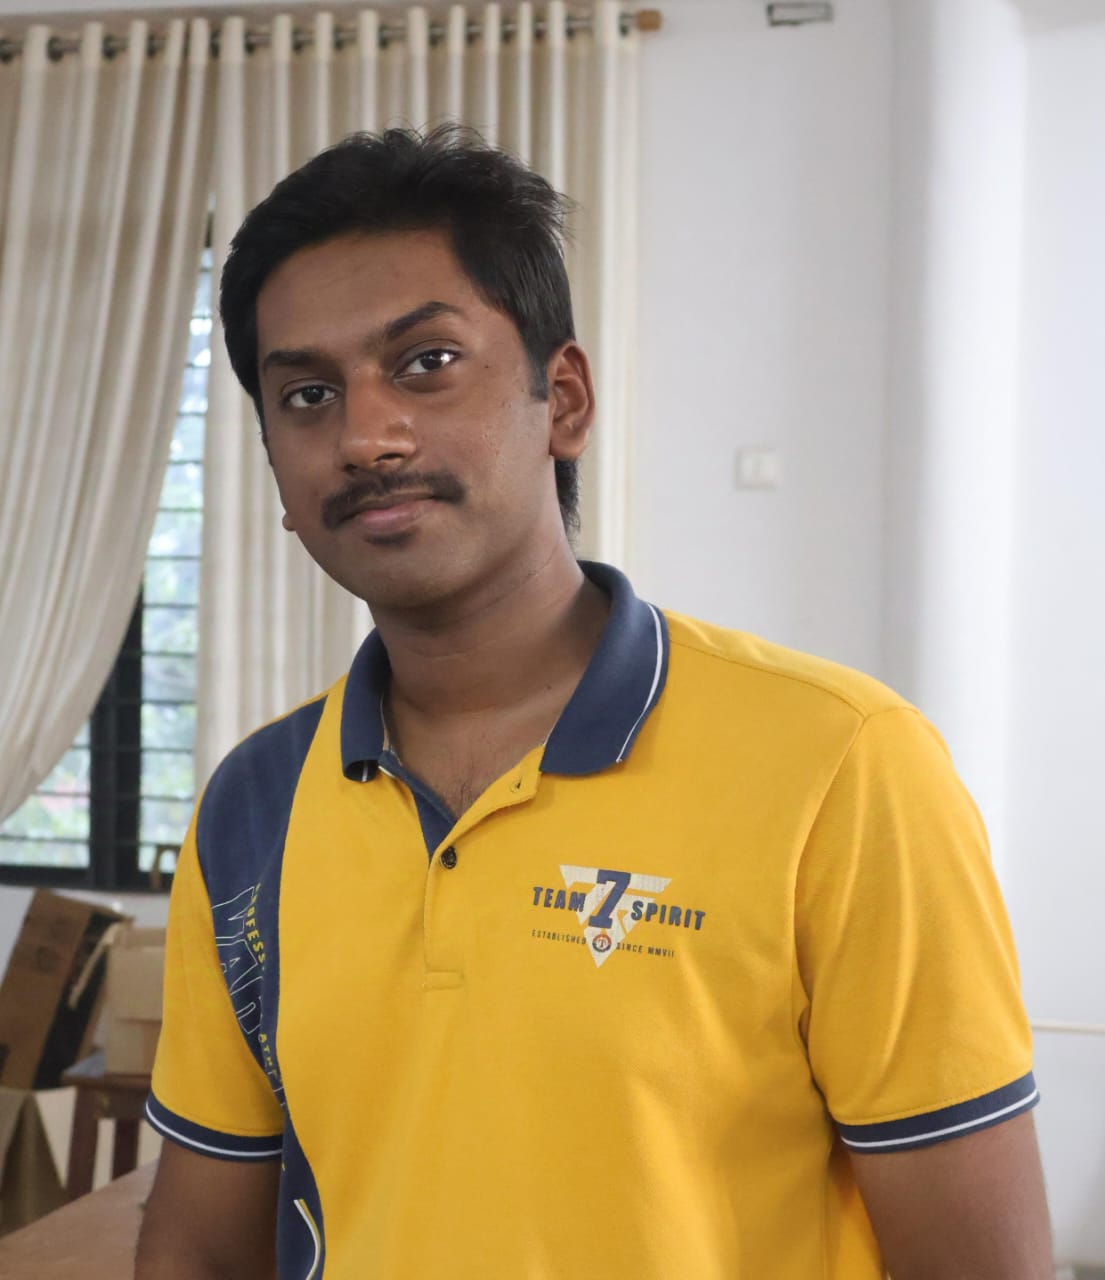
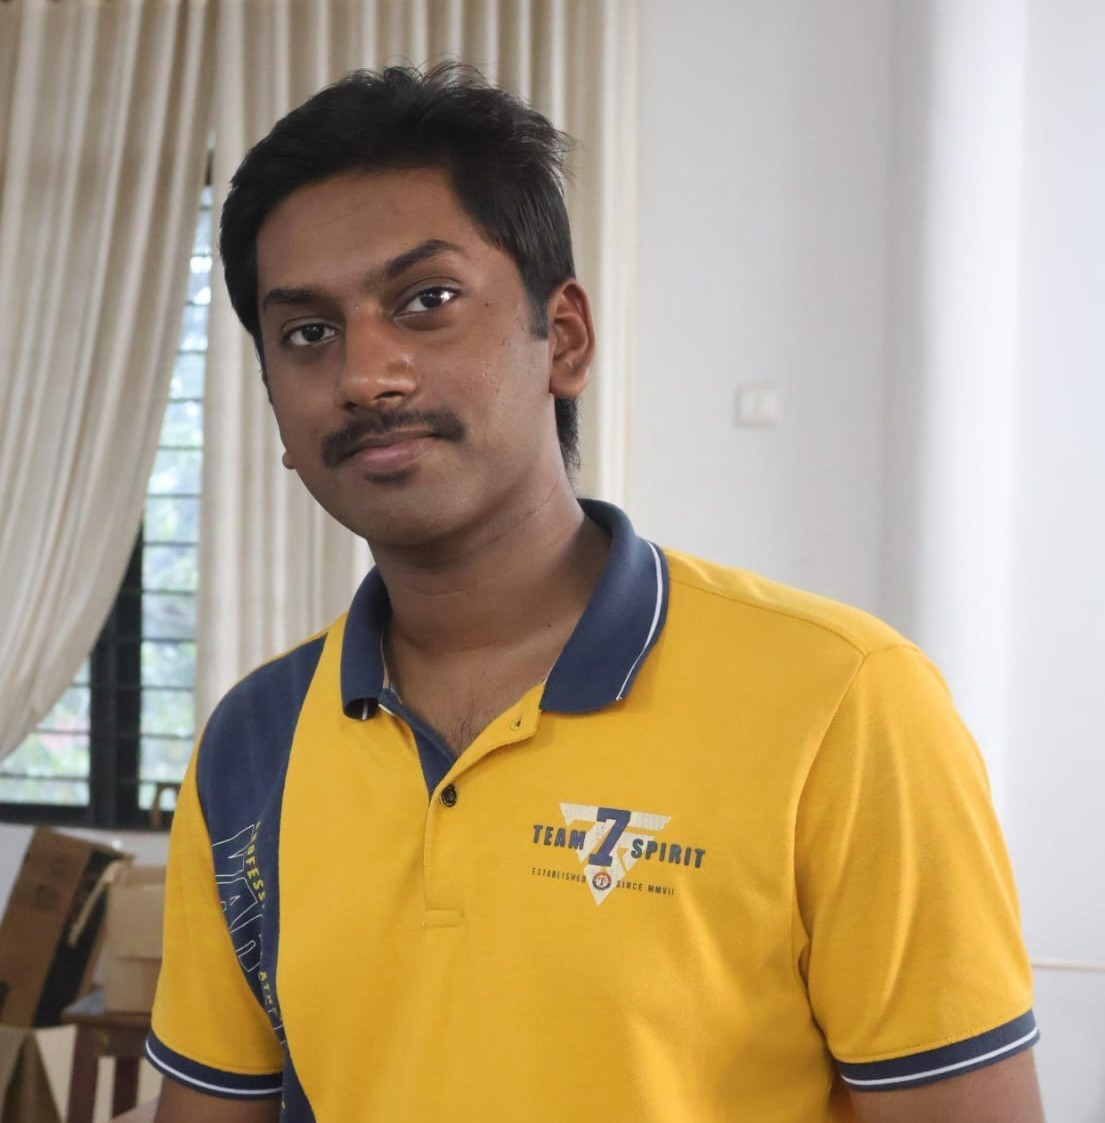
update ui

diff --git a/index.html b/index.html
@@ -69,7 +69,7 @@
           </div>
         </div>
         <div class="col-lg-6 order-1 order-lg-2 hero-img" data-aos="fade-up" data-aos-delay="200">
-          <img src="assets/img/frnt.jpeg" class="img-fluid animated" alt="">
+          <img src="assets/img/front.png" class="img-fluid animated" alt="">
         </div>
       </div>
     </div>
